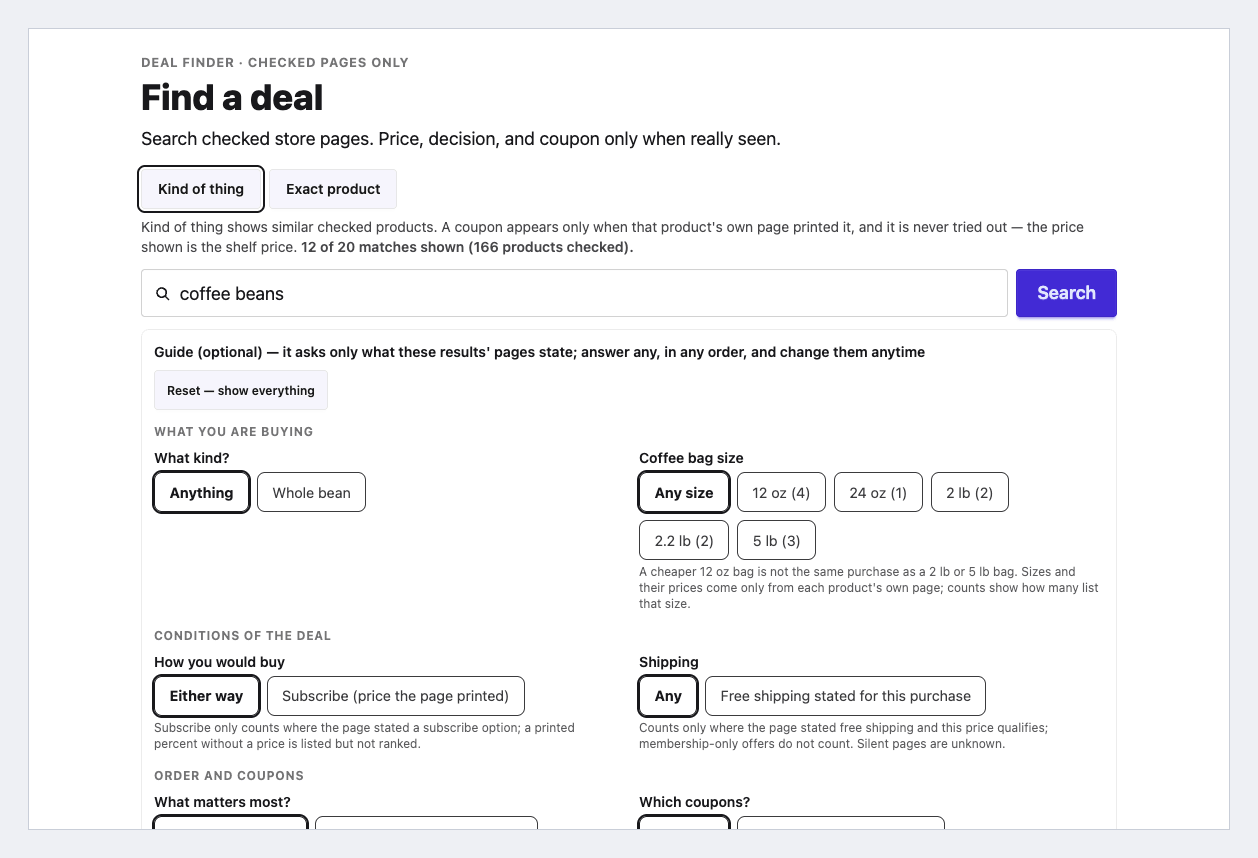
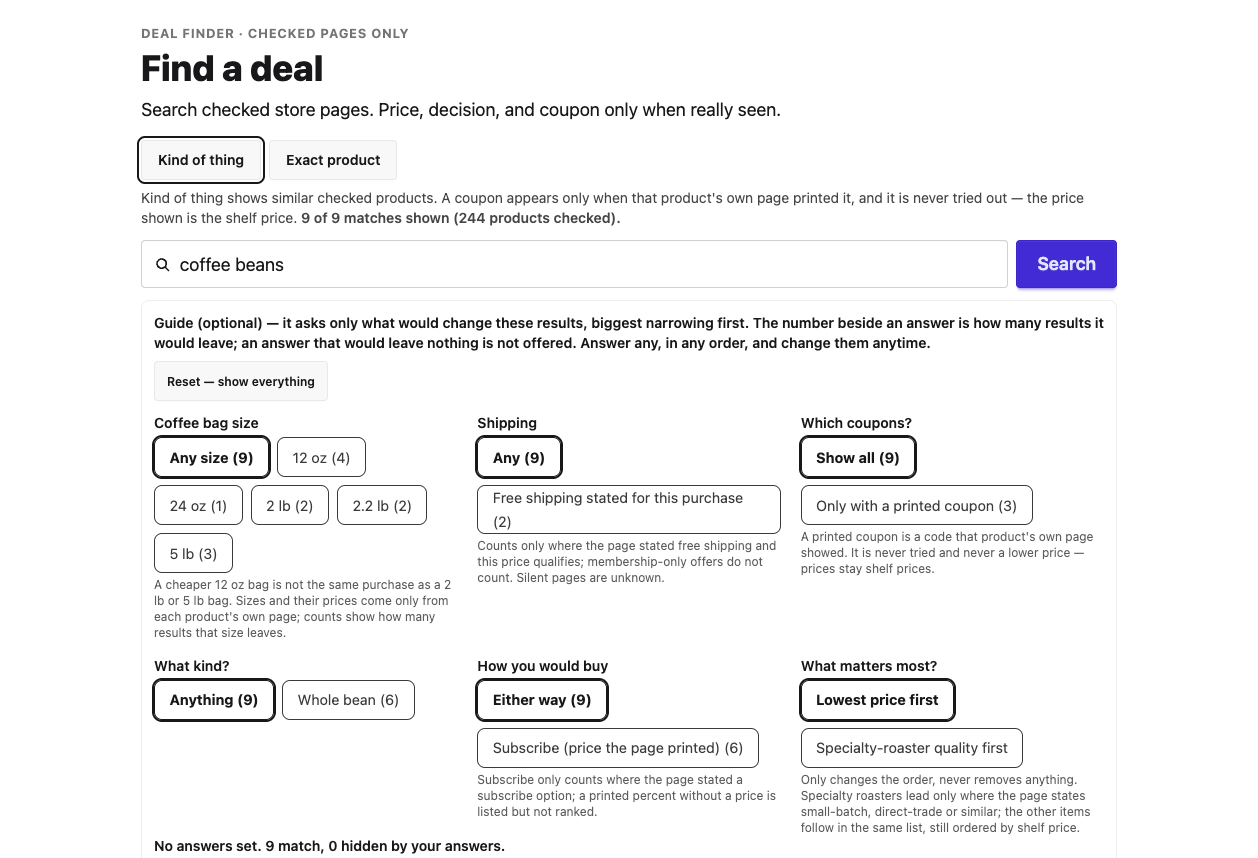
docs(readme): refresh for the live tool (#24)
* docs(readme): refresh for live tool: real captures, fixtures count, result-card paragraph

* docs(readme): phone image width, card wording

Changed region(s): [[0.093, 0.0303, 0.899, 0.6061], [0.124, 0.6364, 0.868, 1.0], [0.372, 0.4848, 0.868, 0.7273]]

diff --git a/README.md b/README.md
@@ -36,8 +36,9 @@ price and never fills in what a page did not say.
    products with a printed coupon. A question you can't answer from the pages
    is not asked. Each answer can be changed at any time, and *Reset* shows
    everything again.
-3. **Read the cards.** Each card has the product, its shelf price, a decision
-   with a *See at the store* link, any coupon, and what the page stated about
+3. **Read the cards.** Each card has the product, its shelf price, a *See at the
+   store* link (hand-checked coffee cards add a decision; the rest say *Price read
+   from the store page*), any coupon, and what the page stated about
    size, shipping and subscribe. A *Why it is here* line says why a product is
    listed, and *Hidden by your answers* lists what the guide removed and why.
 4. **Go to the store and recheck.** The price was true when the page was
@@ -45,15 +46,25 @@ price and never fills in what a page did not say.
    the final say.
 
 <p align="center">
-  <img src="docs/readme/tool-desktop-result.png" width="880" alt="Screenshot of a result card in the live tool for Super Crema Whole Bean, 2.2 lb bag from Lavazza, with its shelf price, a Good to buy decision, a coupon box showing the code CAFE20 as seen and never tried out, and a list of what the page states about size, shipping and subscribe.">
+  <img src="docs/readme/tool-desktop-result.png" width="880" alt="Screenshot of a result card in the live tool for the UNTUCKit Waffle-Knit Hoodie Sweater at $128, with the line Price read from the store page, a coupon box showing the page-printed code NOIRON as printed and not applied, the date window the page printed and that today is inside it, and a list of what the page states about size, shipping and subscribe.">
 </p>
 
-<p align="center"><sub>The screenshot is the real capture from when the Lavazza pages printed CAFE20 (recorded 2026-10-01). On 2026-10-03 the same three pages printed AS20 instead, and the live tool now shows that, still as seen and never tried.</sub></p>
+<p align="center"><sub>Real capture of the live tool on 2026-10-03. The coupon window on that card ends 2026-10-04, so a later visit shows the card's own passed/not-passed line instead.</sub></p>
+
+A result card shows the shelf price exactly as the store page printed it, and how
+old the check is ("Checked today", or "Checked 2 days ago"). If the page printed a
+coupon, the card quotes the page's own words and says the code was printed, not
+applied, so the price never includes it. It also quotes the coupon's printed date
+window and says whether today, in US Eastern time, is inside it or has passed, or
+that the text states no clear window. Shipping that needs a membership is not
+counted as free: the card says the check was not signed in. Whatever the page did
+not show, such as tax or whether a code works, is listed on a *Confirm at
+checkout* line.
 
 On a phone the same page works at narrow width:
 
 <p align="center">
-  <img src="docs/readme/tool-phone.png" width="640" alt="Two phone-width screenshots of the live tool. Left: the search box and the optional guide. Right: a result card with the product picture, price, decision and a coupon box.">
+  <img src="docs/readme/tool-phone.png" width="390" alt="Screenshot of the live tool at a 390 px phone width, with no sideways scrolling: the search box, the optional guide, and a result card with the product picture, price, the line Price read from the store page, and a coupon box.">
 </p>
 
 ## What the evidence rules mean
@@ -175,7 +186,7 @@ missing, false, ambiguous, or revoked prerequisite returns `research-only`.
 - Consent and cart-action accountability: `CONSENT.md`.
 - Discovery and substitute bounds: `DISCOVERY.md`.
 - Unknown-cost behavior: `LANDED_COST.md`.
-- Draft fixture corpus (21 cases, needs independent relabeling): `FIXTURES.json`.
+- Draft fixture corpus (53 cases, needs independent relabeling): `FIXTURES.json`.
 - Judgment engine spec and Jev Choice/Score/Noul binding: `JUDGMENT_ENGINE.md`.
 - Gate-by-gate evidence record (all gates not run/blocked): `VALIDATION_RECORD.md`.
 - Key-dependent Jev validation still required: `KEYED_VALIDATION.md`.
